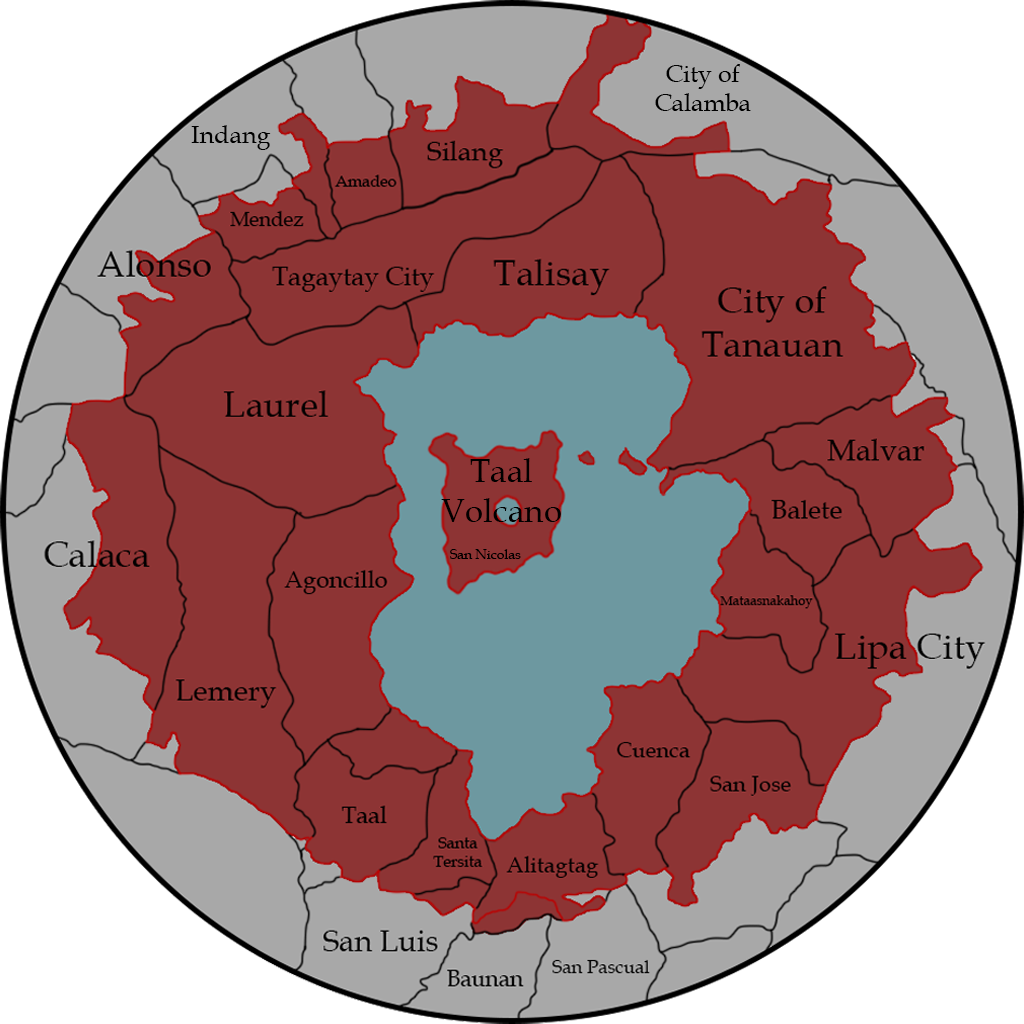
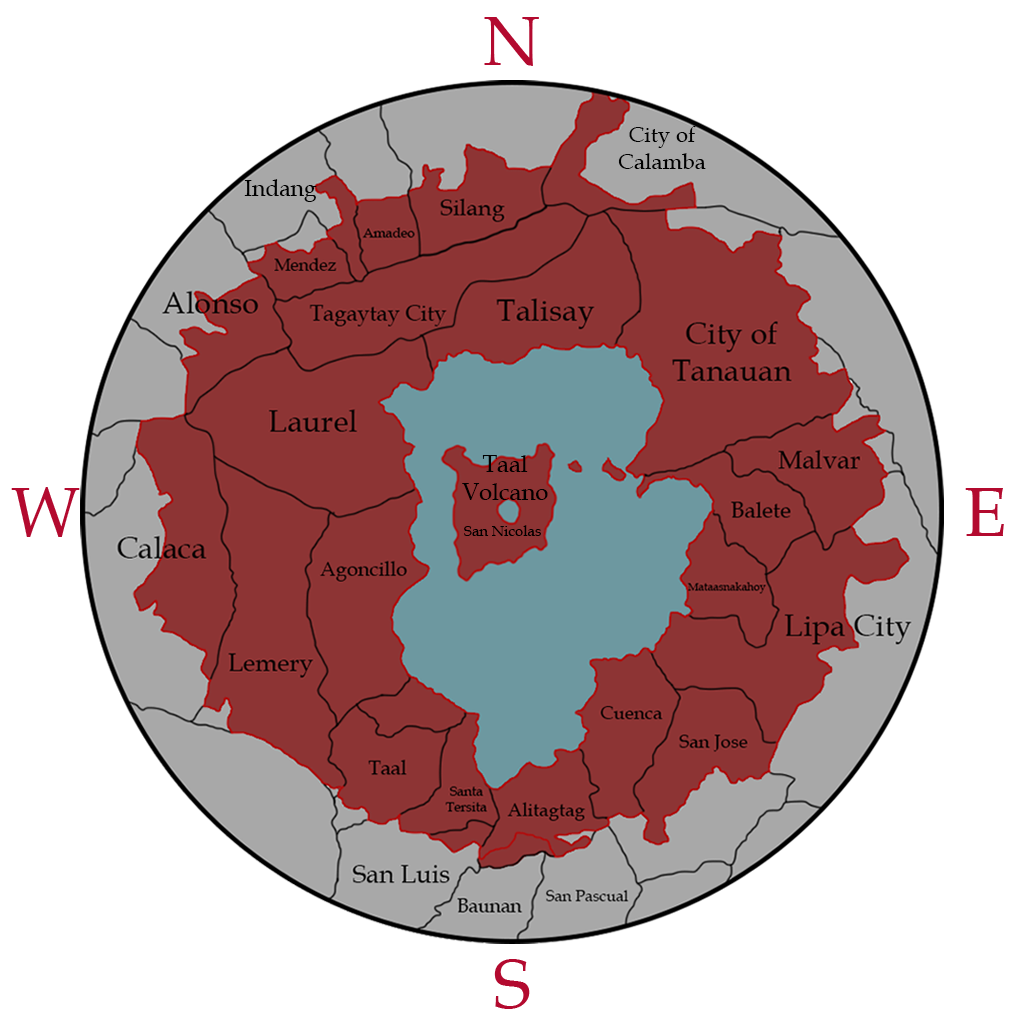
direction tracker working

diff --git a/code_plume/scenes/sources/smoke/smoke.cpp b/code_plume/scenes/sources/smoke/smoke.cpp
@@ -210,25 +210,21 @@ vcl::vec3 scene_model::compute_wind_vector(float height)
 
 void scene_model::calculate_avg_wind_dir()
 {
-    vcl::vec3 temp_vector = { 0,0,0 };
+    vcl::vec3 winds_vec = { 0,0,0 };
     for (int i = 0; i < winds.size(); i++)
     {
-        temp_vector.x += winds[i].wind_vector.x;
-        temp_vector.y += winds[i].wind_vector.y;
-        temp_vector.z += winds[i].wind_vector.z;
-        std::cout << "wind_vector (" << winds[i].wind_vector.x << ", " << winds[i].wind_vector.y << ", " << winds[i].wind_vector.z << std::endl;;
+        winds_vec.x += winds[i].wind_vector.x;
+        winds_vec.y += winds[i].wind_vector.y;
+        winds_vec.z += winds[i].wind_vector.z;
     }
-    float winds_squared_x = temp_vector.x * temp_vector.x;
-    float winds_squared_y = temp_vector.y * temp_vector.y;
-    float winds_squared_z = temp_vector.z * temp_vector.z;
-    float magnitude = sqrt(winds_squared_x + winds_squared_y + winds_squared_z);
-    this->avg_wind_direction = vcl::vec3(temp_vector.x / magnitude, temp_vector.y / magnitude, temp_vector.z / magnitude);
-    std::cout << "Temp Vector (" << temp_vector.x << ", " << temp_vector.y <<", " << temp_vector.z << ")" << std::endl;
-    std::cout << "Magnitude :" << magnitude << std::endl;
-    std::cout << "Avg Wind Dir (" << avg_wind_direction.x << ", " << avg_wind_direction.y << avg_wind_direction.z << ")" << std::endl;
-    direction_tracker.set_wind_direction(this->avg_wind_direction);
 
- 
+    float winds_squared_x = winds_vec.x * winds_vec.x;
+    float winds_squared_y = winds_vec.y * winds_vec.y;
+    float winds_squared_z = winds_vec.z * winds_vec.z;
+
+    float mag = sqrt(winds_squared_x + winds_squared_y + winds_squared_z);
+    this->avg_wind_direction = vcl::vec3(winds_vec.x / mag, winds_vec.y / mag, winds_vec.z / mag);
+    direction_tracker.set_wind_direction(this->avg_wind_direction);
 }
 
 void scene_model::edit_smoke_layer_properties(unsigned int i, float& d_mass)
@@ -1183,6 +1179,7 @@ void scene_model::setup_data(std::map<std::string,GLuint>& shaders, scene_struct
     frame_count = 0;
     export_data = false;
     state = engine_state::stopped;
+    all_angles = false;
     srand(time(0));
 
     t_loader.mesh_shader = shaders["mesh"];
@@ -1916,6 +1913,9 @@ void scene_model::set_gui()
             calculate_avg_wind_dir();
         }
 
+        ImGui::SameLine();
+        ImGui::Checkbox("All Angles", &all_angles);
+
         // Wind
 
         float lin_windbase_min = 0., lin_windbase_max = 35.;
@@ -1929,7 +1929,7 @@ void scene_model::set_gui()
                     if (i > 3) winds[i].intensity = 3 * linear_wind_base;
                     if (winds[i].intensity == 0) winds[i].intensity = 1;
                     winds[i].angle = 0;
-                    winds[i].wind_vector = winds[i].intensity * vec3(cos(winds[i].angle), sin(winds[i].angle), 0);
+                    winds[i].recalc_wind_vector();
                 }
             }
         }
@@ -1995,12 +1995,22 @@ void scene_model::set_gui()
            
         if (ImGui::SliderScalar("Angle", ImGuiDataType_S32, &this->deg_angle[selected], &angle_min, &angle_max))
         {
-            winds[selected] = wind_structure(winds[selected].intensity, this->deg_angle[selected]);
-            winds[selected].recalc_wind_vector();
-            if (winds[selected].intensity != 0)
+            if (all_angles)
             {
-                calculate_avg_wind_dir();
+                for (int i = 0; i < wind_size; i++)
+                {
+                    this->deg_angle[i] = this->deg_angle[selected];
+                    winds[i] = wind_structure(winds[i].intensity, this->deg_angle[i]);
+                    winds[i].recalc_wind_vector();
+                }
             }
+            else
+            {
+                winds[selected] = wind_structure(winds[selected].intensity, this->deg_angle[selected]);
+                winds[selected].recalc_wind_vector();
+            }
+            
+            if (winds[selected].intensity != 0) calculate_avg_wind_dir();
        
         }
            
@@ -2011,7 +2021,7 @@ void scene_model::set_gui()
         for (int i = 0; i < wind_size; i++)
         {
             intensity[i] = winds[i].intensity;
-            angle[i] = winds[i].angle;
+            angle[i] = this->deg_angle[i];
         }
 
 

diff --git a/code_plume/scenes/sources/smoke/direction_tracker/direction_tracker.cpp b/code_plume/scenes/sources/smoke/direction_tracker/direction_tracker.cpp
@@ -32,20 +32,29 @@ void direction_tracker::load_data(std::string filePath)
 
 std::vector<std::string> direction_tracker::get_location_names(float angle)
 {
+    if (angle > 180) angle -= 360;
+
     std::vector<std::string> affected_locs;
     std::vector<int> arc_start_indices;
     std::vector<int> arc_end_indices;
 
     for (int i = 0; i < this->arc_start.size(); i++)
     {
-        if (this->arc_start[i] <= angle)
-            arc_start_indices.push_back(i);
+        float arc_start = this->arc_start[i];
+
+        if (arc_start > 180) arc_start -= 360;
+        if (arc_start <= angle) arc_start_indices.push_back(i);
     }
     
     for (int arcIndex : arc_start_indices)
     {
-        if (this->arc_end[arcIndex] >= angle)
-            arc_end_indices.push_back(arcIndex);
+        float arc_start = this->arc_start[arcIndex];
+        float arc_end = this->arc_end[arcIndex];
+
+        if (arc_start > 180) arc_start -= 360;
+        if (arc_end > 180 && arc_end - 360 > arc_start) arc_end -= 360;
+
+        if (arc_end >= angle) arc_end_indices.push_back(arcIndex);
     }
 
     for (int locIndex : arc_end_indices)
@@ -57,8 +66,10 @@ std::vector<std::string> direction_tracker::get_location_names(float angle)
 void direction_tracker::set_wind_direction(vcl::vec3 wind_vector)
 {
     this->wind_vector = wind_vector;
-    float radians = atan2f(wind_vector.y, wind_vector.x);
-    this->wind_angle = (180 * radians / 3.14159);
+    const double pi = 3.14159;
+    double radians = atan2(wind_vector.y, wind_vector.x);
+    if (radians < 0) radians +=  (2 * pi);
+    this->wind_angle = radians * (180.0 / pi);
 }
 
 void direction_tracker::show_gui()
@@ -67,15 +78,16 @@ void direction_tracker::show_gui()
 
     const float image_size = 256.0f;
     const float half_size = image_size / 2.0f;
+    const float line_len = 108.0f;
     ImGui::Image((ImTextureID)danger_zone_image, { image_size, image_size });
     std::vector<std::string> affected_locs = get_location_names(this->wind_angle);
 
     ImDrawList* draw_list = ImGui::GetWindowDrawList();
     ImVec2 win_pos = ImGui::GetWindowPos();
-    win_pos.x += 5; win_pos.y += 25;
+    win_pos.x += 6; win_pos.y += 26;
     ImVec2 start = ImVec2(win_pos.x + half_size, win_pos.y + half_size);
-    ImVec2 end = ImVec2(start.x + (half_size * wind_vector.x), -start.y - (half_size * wind_vector.y));
-    draw_list->AddLine(start, end, IM_COL32(240, 0, 20, 255), 2.0f);
+    ImVec2 end = ImVec2(start.x + (wind_vector.x * line_len), start.y + (-wind_vector.y * line_len));
+    draw_list->AddLine(start, end, IM_COL32(240, 0, 20, 255), 4.0f);
 
     ImGui::SameLine();
     ImGui::BeginChild("Affected Areas", {200.0f, image_size}, true);

diff --git a/code_plume/scenes/sources/smoke/smoke.hpp b/code_plume/scenes/sources/smoke/smoke.hpp
@@ -54,6 +54,7 @@ struct scene_model : scene_base
     bool export_data;
     engine_state state;
     std::vector<int> deg_angle;
+    bool all_angles;
 
     // Trackers
     float new_layer_delay;
